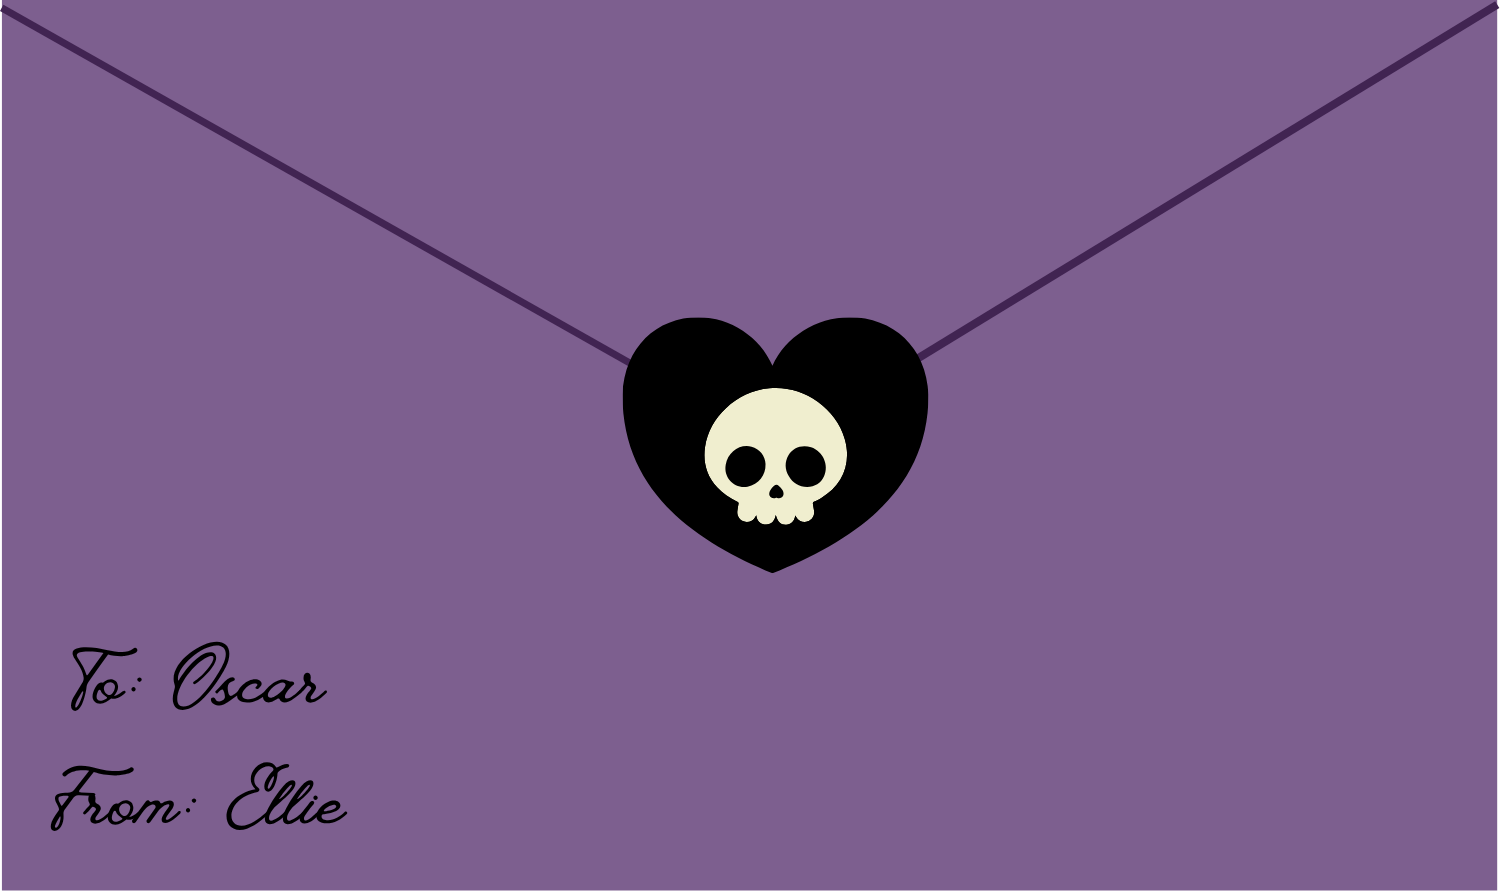
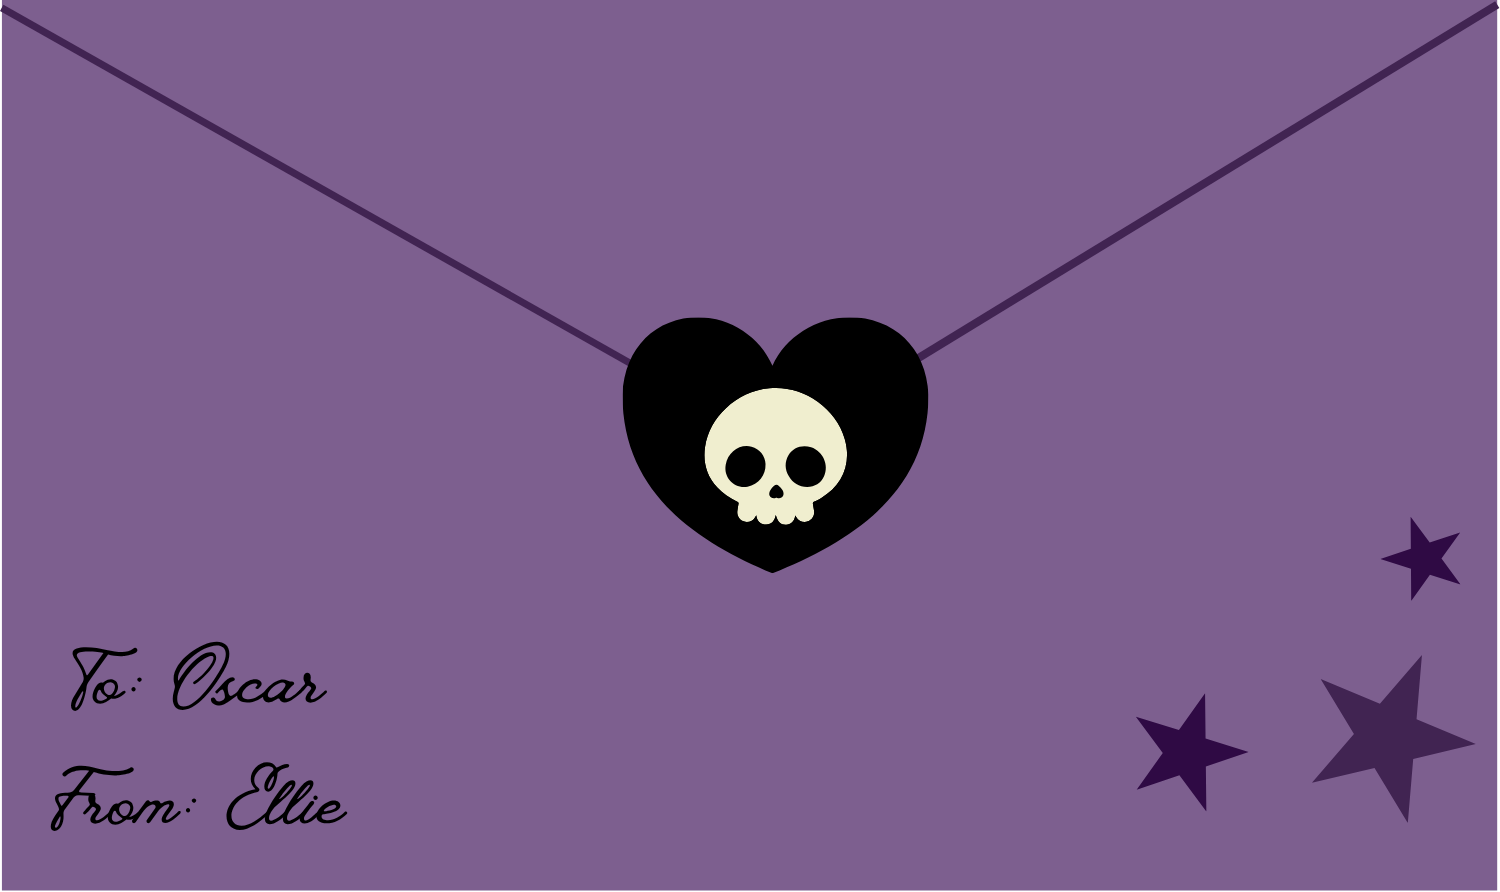
sjasbdj

Changed region(s): [[0.8587, 0.7265, 0.9813, 0.9081], [0.7667, 0.787, 0.828, 0.9081], [0.92, 0.5751, 0.9813, 0.6659]]

diff --git a/style.css b/style.css
@@ -4,7 +4,7 @@ body {
     display: flex;
     justify-content: center;
     align-items: center;
-    background-image: url("...");
+    background-image: url("img/mainbackground.png");
     font-family: "Pixelify Sans", sans-serif;
 }
 
@@ -27,7 +27,7 @@ body {
 }
 
 #envelope{
-    width: 200px;
+    width: 800px;
     animation: pulse 1.5s infinite;
     cursor: pointer;
 }
@@ -41,7 +41,7 @@ body {
 }
 
 .letter-window{
-    width: 90vw;
+    width: 100vw;
     max-width: 800px;
     aspect-ratio: 3/2;
     padding: 20px 20px 0 20px;
@@ -56,7 +56,7 @@ body {
     background-position: center;
     border-radius: 12px;
     gap: 1px;
-    padding-top: 180px;
+    
 
     transform: scale(1.2);
     opacity: 0;
@@ -70,8 +70,9 @@ body {
 
 
 .letter {
-    width: 250px;
-    margin: 10px 0;
+    margin:auto;
+    width: 400px;
+    align-items: center;
     transition: width 0.4s ease;
 }
 
@@ -79,3 +80,7 @@ body {
     width: 180px;
 }
 
+#my-letter {
+    align-items: center;
+    display: flex;
+}
